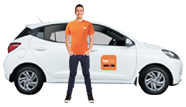
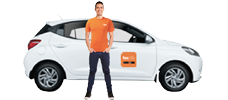
cambiando imágenes y css del modal

diff --git a/assets/css/modal-express.css b/assets/css/modal-express.css
@@ -25,7 +25,6 @@
   padding: 20px;
   border-radius: 5px;
   box-shadow: 0px 0px 10px rgba(0, 0, 0, 0.5);
-  min-width: 720px;
 }
 .fex-close-button {
   float: right;
@@ -116,12 +115,13 @@
 .fex-input-vehicle:checked {
   background-color: #ff6c0e;
 }
-.fex-contain-address{
+.fex-contain-address {
   display: flex;
   align-items: center;
   gap: 5px;
 }
-.fex-contain-address input, select{
+.fex-contain-address input,
+select {
   font-family: "Mulish", sans-serif;
   width: 100px;
   display: inline-block;
@@ -134,15 +134,14 @@
   -ms-user-select: none;
   user-select: none;
   padding: 0.305rem 0.75rem;
-  font-size: 0.80rem;
+  font-size: 0.8rem;
   border: 1px solid gray;
   line-height: 1.5;
   border-radius: 0.25rem;
   transition: color 0.15s e;
   background: #f8f9fa;
 }
-.fex-contain-address label{
-  
+.fex-contain-address label {
   font-family: "Mulish", sans-serif;
   margin: 0px !important;
   display: inline-block;
@@ -164,7 +163,7 @@
 }
 
 .fex-calculate-price {
-   font-family: "Mulish", sans-serif;
+  font-family: "Mulish", sans-serif;
   margin-top: 10px;
   border-style: none;
   border-radius: 4px;
@@ -179,12 +178,13 @@
   color: #333;
   margin-bottom: 10px;
 }
-.contain-inputs-date-fex{
+.contain-inputs-date-fex {
   display: flex;
   gap: 5px;
   margin: 5px 0px;
 }
-#time-fex, #date-fex {
+#time-fex,
+#date-fex {
   display: inline-block;
   font-weight: 500;
   text-align: center;
@@ -195,7 +195,7 @@
   -ms-user-select: none;
   user-select: none;
   padding: 0.305rem 0.75rem;
-  font-size: 0.80rem;
+  font-size: 0.8rem;
   border: 1px solid gray;
   line-height: 1.5;
   border-radius: 0.25rem !important;
@@ -206,7 +206,7 @@
   font-weight: bold;
   color: green;
 }
-.fex-price-text{
+.fex-price-text {
   margin-top: 10px;
 }
 .fex-calculate-price:hover {
@@ -235,4 +235,29 @@ input[type="time"]::-webkit-calendar-picker-indicator {
   background: none;
   text-align: center;
   width: 0px;
+}
+
+@media screen and (max-width: 768px) {
+  .fex-close-button {
+    height: 20px !important;
+    width: 20px !important;
+  }
+  .fex-my-modal {
+    width: 100%; /* Haz que el modal ocupe todo el ancho en dispositivos pequeños */
+    padding: 10px; /* Reduce el espaciado interior */
+    min-width: none;
+  }
+  .fex-contain-address {
+    display: flex;
+  }
+
+  .fex-contain-vehicles {
+    margin-top: 20px;
+    margin-bottom: 20px;
+    display: flex;
+    flex-wrap: wrap;
+    gap: 10px;
+    padding-bottom: 10px;
+    border-bottom: 1px solid rgba(204, 102, 51, 1);
+  }
 }

diff --git a/modals/modals.php b/modals/modals.php
@@ -10,24 +10,21 @@ function agregar_modal_fex()
     ?>
     <script>
         jQuery(document).ready(function ($) {
-            if("<?php echo $_SESSION["calle"] ?>" && "<?php echo is_checkout() ?>") {
-                        direccion = $("#billing_address_1").val("<?php echo $_SESSION["calle"] . ", " . $_SESSION["comuna"] ?>")
-                    }
                 $('body').on('click', 'input[name="shipping_method[0]"]', function () {
                     var metodoEnvioSeleccionado = $(this).val();
                     if (metodoEnvioSeleccionado === 'fex_express_shipping_method') {
 
                         // Mostrar el modal aquí
                         var modalContent = `
-                                <form class="fex-my-modal">
-                                <div class="fex-overlay"></div> 
-                                <button class="fex-close-button">x</button>
-                                <h2 class="fex-title-fex">Fex express</h2>
-                                <p class="fex-description-shipping">¡Tus productos llegan en 30 minutos en la ciudad de Santiago!</p>
-                                <p class="fex-p-fex">Elige un vehículo acorde a tus productos para calcular el precio</p>
-                                <div class="fex-contain-vehicles">
-                                <div  class="fex-contain-moto">
-                                <img class="fex-vehicle-icon" style="width: 60px" src="<?php echo esc_url(plugin_dir_url("fex.php") . 'fex/assets/img/moto_fex.png') ?>">
+                            <form class="fex-my-modal">
+                            <div class="fex-overlay"></div> 
+                            <button class="fex-close-button">x</button>
+                            <h2 class="fex-title-fex">Fex express</h2>
+                            <p class="fex-description-shipping">¡Tus productos llegan en 30 minutos en la ciudad de Santiago!</p>
+                            <p class="fex-p-fex">Elige un vehículo acorde a tus productos para calcular el precio</p>
+                            <div class="fex-contain-vehicles">
+                            <div  class="fex-contain-moto">
+                            <img class="fex-vehicle-icon" style="width: 60px" src="<?php echo esc_url(plugin_dir_url("fex.php") . 'fex/assets/img/moto_fex.png') ?>">
                             <label class="fex-container">Moto
                             <input class="fex-input-vehicle" required value="1" <?php echo (isset($_SESSION["vehicle"]) && $_SESSION["vehicle"] === "1") ? "checked" : ""; ?> type="radio" name="radio">
                             <span class="fex-checkmark"></span>
@@ -226,9 +223,18 @@ function agregar_modal_fex_programado()
     ?>
     <script>
         jQuery(document).ready(function ($) {
-            if("<?php echo $_SESSION["calle"] ?>" && "<?php echo is_checkout() ?>") {
-              direccion = $("#billing_address_1").val("<?php echo $_SESSION["calle"] .", ". $_SESSION["comuna"] ?>")
+            <?php
+             if (isset($_SESSION["calle"]) && isset($_SESSION["comuna"])) {
+                 $direccion_form = $_SESSION["calle"] . ", " . $_SESSION["comuna"];
              }
+             else {
+                 $direccion_form = ""; 
+             }
+             ?>
+            if("<?php echo $direccion_form ?>") {
+              direccion = $("#billing_address_1").val("<?php echo  $direccion_form?>")
+             }
+             
             $('body').on('click', 'input[name="shipping_method[0]"]', function () {
                 var metodoEnvioSeleccionado = $(this).val();
                 if (metodoEnvioSeleccionado === 'fex_programado_shipping_method') {
